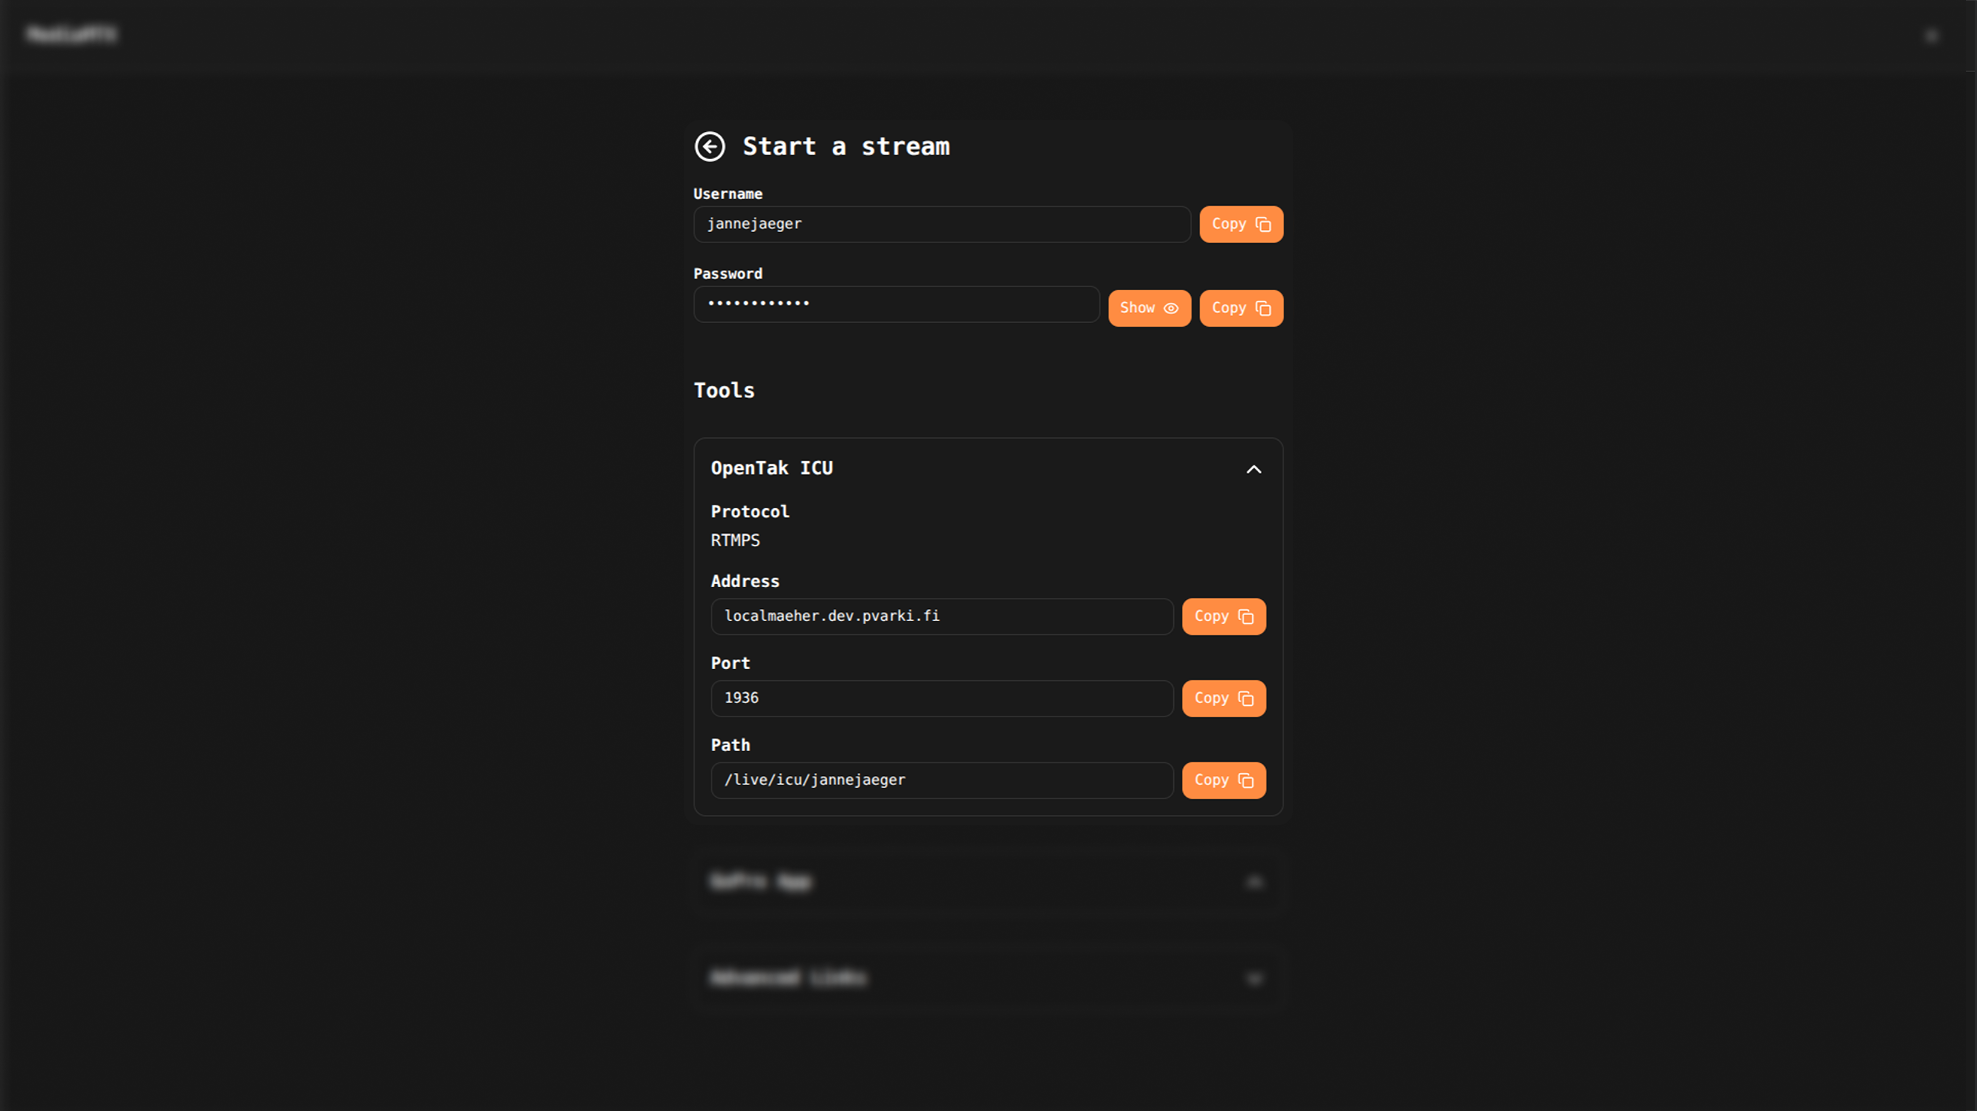
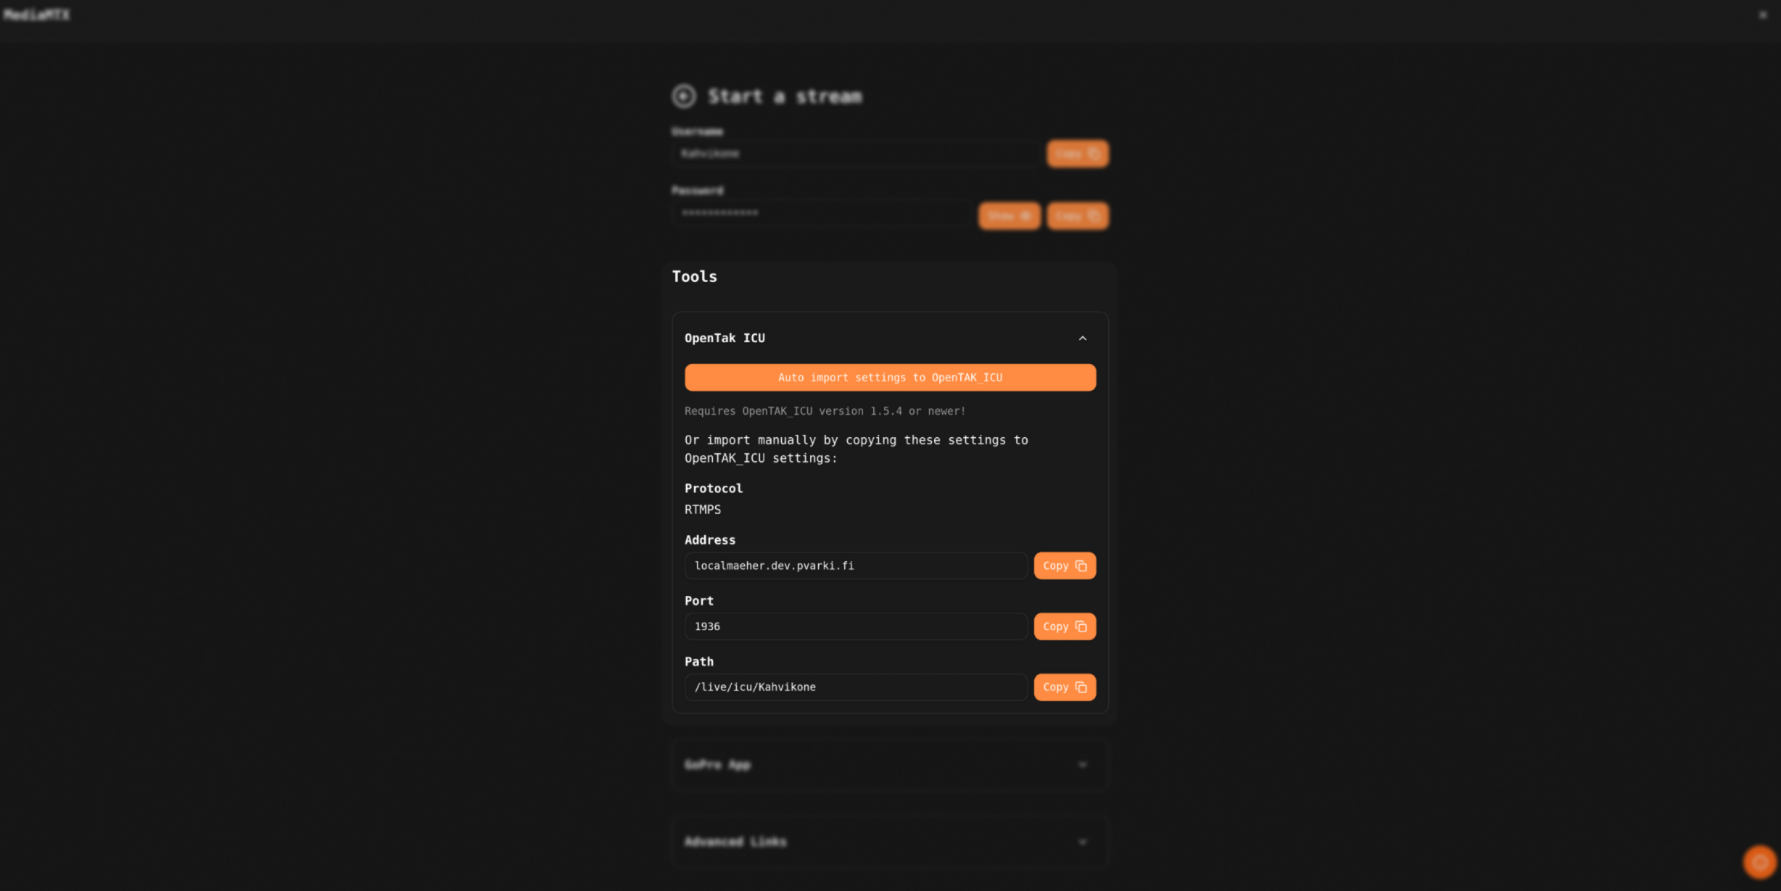
feat: add auto import

diff --git a/ui/src/pages/StreamPage.tsx b/ui/src/pages/StreamPage.tsx
@@ -9,12 +9,13 @@ import {
   ChevronDown,
   ChevronUp,
   ArrowLeftCircle,
+  DownloadIcon,
 } from "lucide-react";
 import { Toaster } from "@/components/ui/sonner";
 import { Link } from "@tanstack/react-router";
 import { TranslatedText } from "@/components/translated-text";
 import { copyToClipboard } from "@/lib/clipboard";
-import { useTranslation } from "react-i18next";
+import { Trans, useTranslation } from "react-i18next";
 import { PRODUCT_SHORTNAME } from "@/App";
 import { OnboardingGuide } from "@/components/OnboardingGuide";
 
@@ -41,15 +42,48 @@ export const StreamPage = () => {
   const [isOpenTakIcuOpen, setIsOpenTakIcuOpen] = useState(false);
   const [isGoProAppOpen, setIsGoProAppOpen] = useState(false);
   const [showGoProAppLink, setShowGoProAppLink] = useState(false);
-  const [isUasToolOpen, setIsUasToolOpen] = useState(false);
-  const [showToolPasswords, setShowToolPasswords] = useState<
-    Record<number, boolean>
-  >({});
+
   const [showAdvancedPasswords, setShowAdvancedPasswords] = useState<
     Record<number, boolean>
   >({});
 
   const currentDomain = window.location.hostname.replace(/^mtls./, "");
+
+  const generateOpenTakIcuUrl = ({
+    protocol,
+    address,
+    port,
+    path,
+    username,
+    password,
+  }: {
+    protocol: string;
+    address: string;
+    port?: string;
+    path?: string;
+    username?: string;
+    password?: string;
+  }) => {
+    const params = new URLSearchParams();
+
+    if (protocol) params.append("protocol", protocol);
+    if (address) params.append("address", address);
+    if (port) params.append("port", port);
+    if (path) params.append("path", path);
+    if (username) params.append("username", username);
+    if (password) params.append("password", password);
+
+    return `opentakicu://import?${params.toString()}`;
+  };
+
+  const openTakIcuUrl = generateOpenTakIcuUrl({
+    protocol: "rtmps",
+    address: currentDomain,
+    port: "1936",
+    path: `/live/icu/${user?.username}`,
+    username: user?.username,
+    password: user?.password,
+  });
 
   useEffect(() => {
     async function fetchCredentials() {
@@ -182,14 +216,14 @@ export const StreamPage = () => {
               </p>
 
               {/* Tools */}
-              <div className="items-center justify-between font-semibold mt-8 border rounded-lg text-left">
+              <div className="items-center justify-between mt-8 border rounded-lg text-left">
                 <div
                   className="flex flex-row items-center justify-between border-0 m-0 rounded-lg p-4 cursor-pointer"
                   onClick={() => setIsOpenTakIcuOpen(!isOpenTakIcuOpen)}
                 >
                   <TranslatedText
                     id="stream.opentak_icu"
-                    className="text-left"
+                    className="text-left font-bold"
                   />
                   <Button
                     variant="ghost"
@@ -200,8 +234,23 @@ export const StreamPage = () => {
                   </Button>
                 </div>
                 {isOpenTakIcuOpen && (
-                  <div className="space-y-4 p-4">
-                    <div className="text-left">
+                  <div className="space-y-4 p-4 pt-0">
+                    <div className="flex flex-col gap-4">
+                      <a href={openTakIcuUrl} target="_blank">
+                        <Button className="cursor-pointer w-full h-auto py-2 whitespace-normal wrap-break-word">
+                          <TranslatedText id="stream.import.auto" />
+                        </Button>
+                      </a>
+
+                      <TranslatedText
+                        id="stream.import.warning"
+                        className="text-sm text-muted-foreground"
+                      />
+
+                      <TranslatedText id="stream.import.manual" />
+                    </div>
+
+                    <div className="text-left space-y-1">
                       <TranslatedText
                         id="stream.protocol"
                         className="font-bold text-gray-800"

diff --git a/ui/src/components/OnboardingGuide.tsx b/ui/src/components/OnboardingGuide.tsx
@@ -66,6 +66,13 @@ function STREAM_PAGE_ONBOARDING_STEPS(theme: string): OnboardingStep[] {
       mobileImage: `/ui/mtx/assets/Onboarding/${theme}/mobile/ON_BOARDING_START_A_STREAM.png`,
     },
     {
+      id: "opentak0",
+      title: "onboarding.steps.stream.opentak0.title",
+      description: "onboarding.steps.stream.opentak0.description",
+      image: `/ui/mtx/assets/Onboarding/${theme}/ON_BOARDING_IMPORT.png`,
+      mobileImage: `/ui/mtx/assets/Onboarding/${theme}/mobile/ON_BOARDING_IMPORT.png`,
+    },
+    {
       id: "opentak1",
       title: "onboarding.steps.stream.opentak1.title",
       description: "onboarding.steps.stream.opentak1.description",
